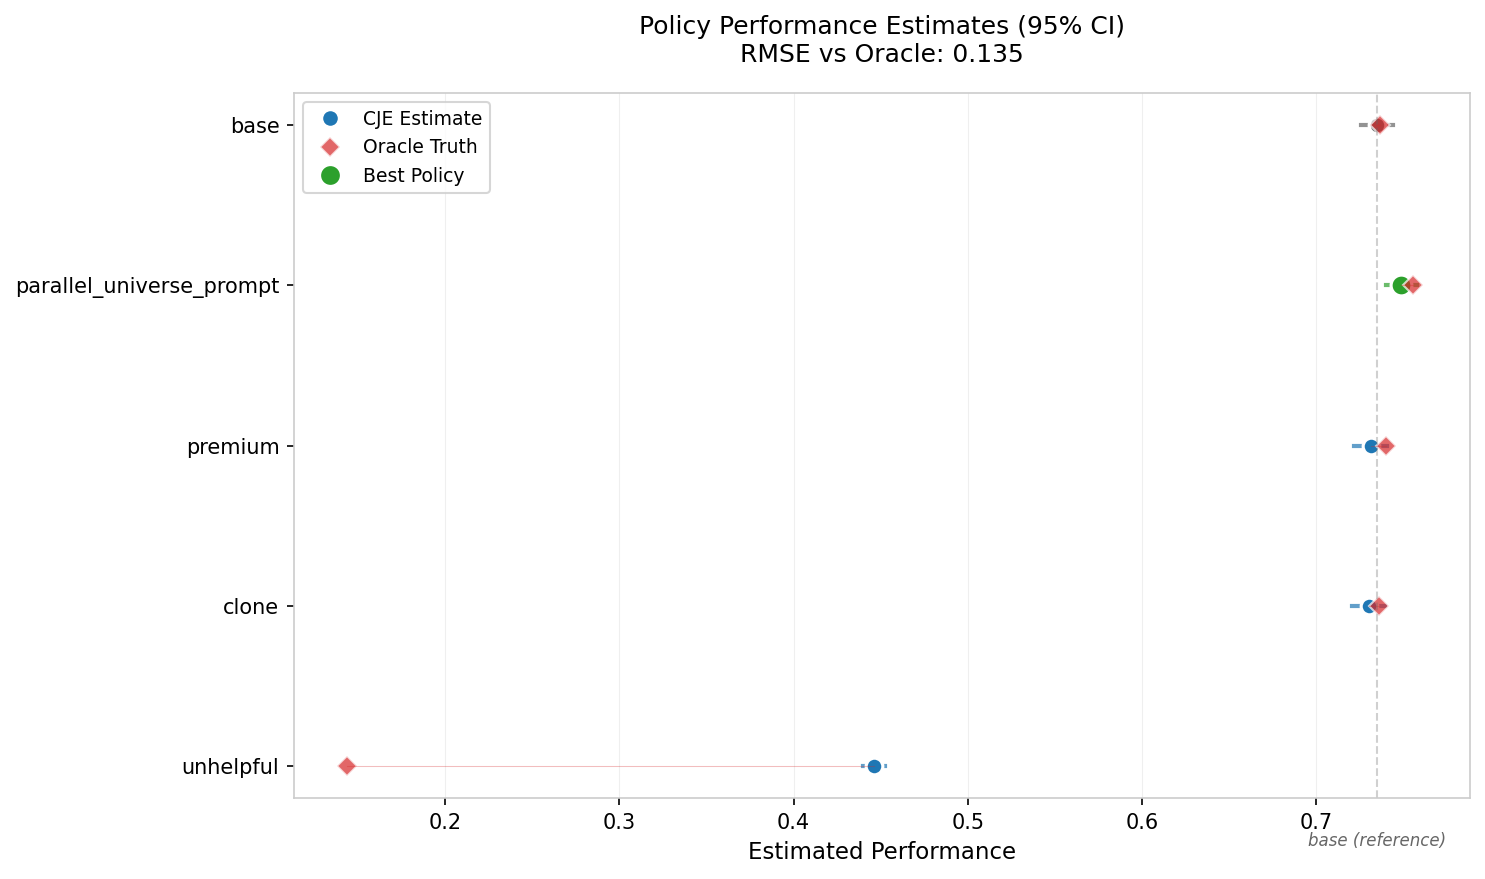
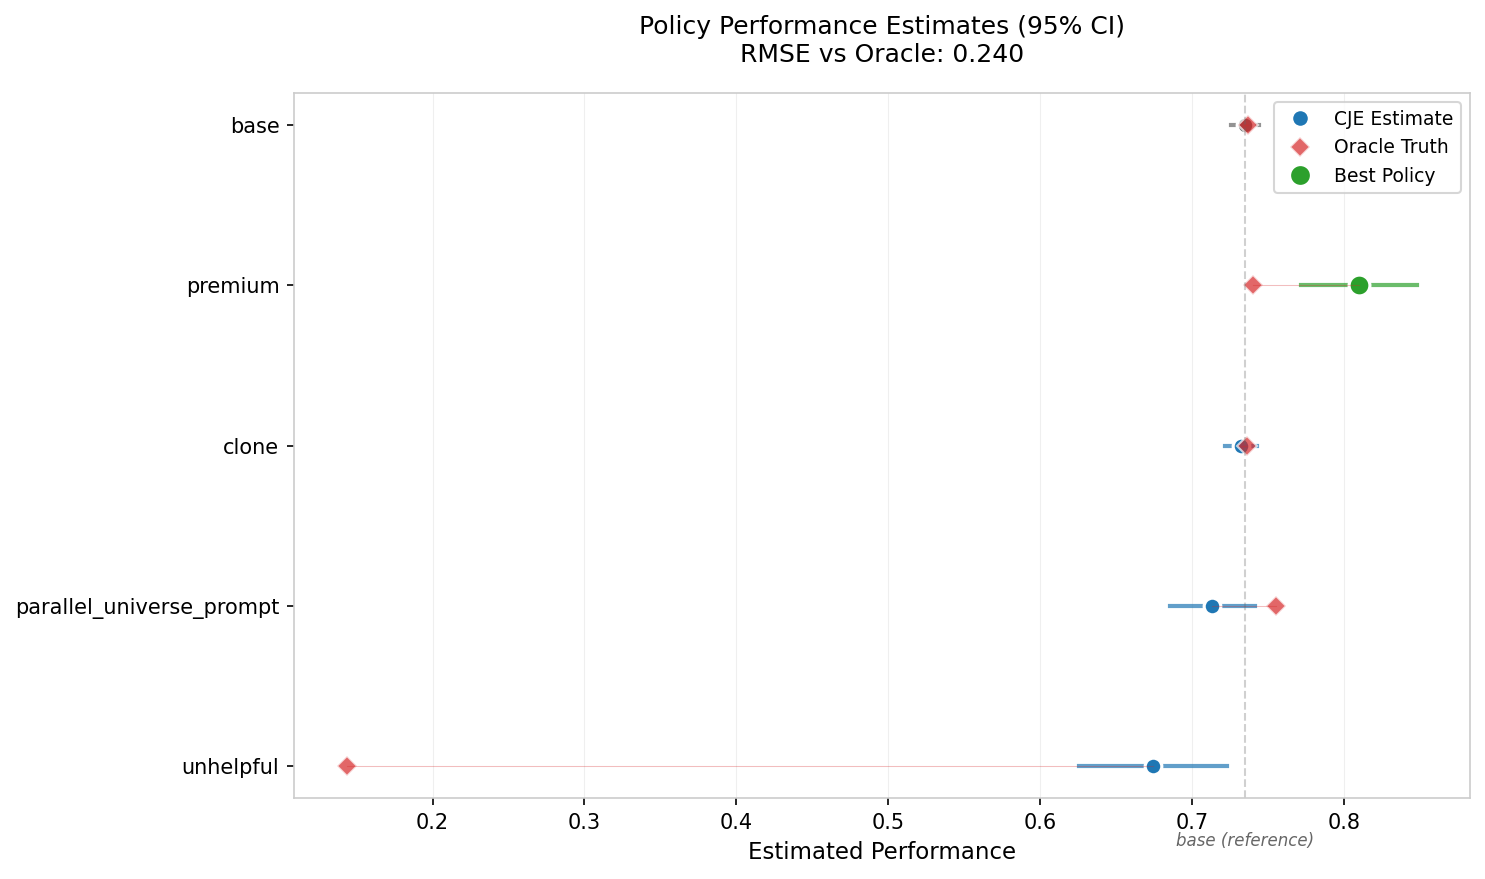
feat: Add influence function storage and improved policy comparisons
## ✨ Statistical Improvements

### 1. Influence Function Storage
- **Added**: `store_influence` parameter to CalibratedIPS and DREstimator
- **Stores**: Per-sample influence functions for each policy
- **Enables**: Correct variance estimation for policy differences
- **Impact**: More accurate hypothesis tests and confidence intervals

### 2. Policy Comparison with Covariance
- **Before**: Used sqrt(se1² + se2²) - ignores covariance
- **Now**: Uses Var(IF₁ - IF₂) when influence functions available
- **Result**: Less conservative p-values for correlated policies
- **Fallback**: Conservative estimate when IFs not available

### 3. Fixed evaluate_status
- **Bug**: Assumed balance diagnostics always populated
- **Fix**: Gracefully handles missing balance metrics
- **Impact**: No crashes when features not provided

## 🔧 Implementation Details

- CalibratedIPS: Stores IF = W*(R - θ) for mean-one Hajek estimator
- DREstimator: Stores IF = g_fresh + W*(R - g_logged) - θ_DR
- EstimationResult.compare_policies(): Automatically uses IFs when available
- Added "used_influence" flag to comparison results for transparency

These improvements enable more accurate statistical inference, especially
for comparing highly correlated policies (e.g., similar models on same data).

🤖 Generated with [Claude Code](https://claude.ai/code)

diff --git a/cje/data/models.py b/cje/data/models.py
@@ -168,11 +168,55 @@ class EstimationResult(BaseModel):
     def compare_policies(
         self, idx1: int, idx2: int, alpha: float = 0.05
     ) -> Dict[str, Any]:
-        """Compare two policies."""
+        """Compare two policies using influence functions when available."""
         diff = self.estimates[idx1] - self.estimates[idx2]
-        se_diff = np.sqrt(
-            self.standard_errors[idx1] ** 2 + self.standard_errors[idx2] ** 2
+
+        # Check if we have influence functions to account for covariance
+        influence_data = (
+            self.metadata.get("dr_influence")
+            or self.metadata.get("ips_influence")
+            or self.metadata.get("tmle_influence")
         )
+
+        if influence_data and "target_policies" in self.metadata:
+            # Use influence functions for correct variance estimation
+            policies = self.metadata["target_policies"]
+            if idx1 < len(policies) and idx2 < len(policies):
+                p1 = policies[idx1]
+                p2 = policies[idx2]
+
+                if p1 in influence_data and p2 in influence_data:
+                    # Compute variance of difference using influence functions
+                    if1 = influence_data[p1]
+                    if2 = influence_data[p2]
+
+                    # Ensure same length (should be aligned)
+                    if len(if1) == len(if2):
+                        diff_if = if1 - if2
+                        se_diff = float(np.std(diff_if, ddof=1) / np.sqrt(len(diff_if)))
+                    else:
+                        # Fall back to conservative estimate if lengths mismatch
+                        se_diff = np.sqrt(
+                            self.standard_errors[idx1] ** 2
+                            + self.standard_errors[idx2] ** 2
+                        )
+                else:
+                    # Fall back if policies not found
+                    se_diff = np.sqrt(
+                        self.standard_errors[idx1] ** 2
+                        + self.standard_errors[idx2] ** 2
+                    )
+            else:
+                # Fall back if indices out of range
+                se_diff = np.sqrt(
+                    self.standard_errors[idx1] ** 2 + self.standard_errors[idx2] ** 2
+                )
+        else:
+            # Conservative estimate ignoring covariance
+            se_diff = np.sqrt(
+                self.standard_errors[idx1] ** 2 + self.standard_errors[idx2] ** 2
+            )
+
         z_score = diff / se_diff if se_diff > 0 else 0
 
         from scipy import stats
@@ -185,6 +229,11 @@ class EstimationResult(BaseModel):
             "z_score": z_score,
             "p_value": p_value,
             "significant": p_value < alpha,
+            "used_influence": influence_data is not None
+            and se_diff
+            != np.sqrt(
+                self.standard_errors[idx1] ** 2 + self.standard_errors[idx2] ** 2
+            ),
         }
 
     def to_dict(self) -> Dict[str, Any]:

diff --git a/cje/core/calibrated_ips.py b/cje/core/calibrated_ips.py
@@ -47,13 +47,16 @@ class CalibratedIPS(BaseCJEEstimator):
         enforce_variance_nonincrease: bool = True,  # Default: prevent variance explosion
         max_variance_ratio: float = 1.0,  # ≤1.0 = no increase, <1.0 = force reduction
         compute_diagnostics: bool = True,  # compute detailed diagnostics
+        store_influence: bool = False,  # Store per-sample influence functions
     ):
         super().__init__(sampler)
         self.clip_weight = clip_weight
         self.enforce_variance_nonincrease = enforce_variance_nonincrease
         self.max_variance_ratio = max_variance_ratio
         self.compute_diagnostics = compute_diagnostics
+        self.store_influence = store_influence
         self.target_mean = 1.0  # Always use SNIPS/Hajek normalization
+        self._influence_functions: Dict[str, np.ndarray] = {}
 
     def fit(self) -> None:
         """Fit weight calibration for all target policies with comprehensive diagnostics."""
@@ -217,22 +220,38 @@ class CalibratedIPS(BaseCJEEstimator):
                 centered = weights * (rewards - estimate)
                 var_hat = float(np.var(centered, ddof=1))
                 se = np.sqrt(var_hat / n)
+
+                # Store influence functions if requested
+                if self.store_influence:
+                    # Influence function for mean-one Hajek estimator
+                    self._influence_functions[policy] = centered
             else:
                 se = 0.0
+                if self.store_influence:
+                    self._influence_functions[policy] = np.array([])
 
             estimates.append(estimate)
             standard_errors.append(se)
             n_samples_used[policy] = len(data) if data else 0
+
+        metadata = {
+            "clip_weight": self.clip_weight,
+            "diagnostics": self._diagnostics,  # Include diagnostics
+            "target_policies": list(
+                self.sampler.target_policies
+            ),  # For policy comparison
+        }
+
+        # Add influence functions if stored
+        if self.store_influence:
+            metadata["ips_influence"] = self._influence_functions
 
         return EstimationResult(
             estimates=np.array(estimates),
             standard_errors=np.array(standard_errors),
             n_samples_used=n_samples_used,
             method="calibrated_ips",
-            metadata={
-                "clip_weight": self.clip_weight,
-                "diagnostics": self._diagnostics,  # Include diagnostics
-            },
+            metadata=metadata,
         )
 
     def get_diagnostics(self, target_policy: Optional[str] = None) -> Dict[str, Any]:

diff --git a/cje/core/dr_base.py b/cje/core/dr_base.py
@@ -106,6 +106,10 @@ class DREstimator(BaseCJEEstimator):
         self._fresh_draws: Dict[str, FreshDrawDataset] = {}
         self._outcome_fitted = False
 
+        # Influence function storage
+        self.store_influence = kwargs.pop("store_influence", False)
+        self._influence_functions: Dict[str, np.ndarray] = {}
+
         # Generate fold assignments for cross-fitting
         n_samples = len(sampler.dataset.samples)
         self.fold_assignments = self._create_fold_assignments(n_samples, n_folds)
@@ -444,6 +448,10 @@ class DREstimator(BaseCJEEstimator):
             )
             se = np.std(if_contributions, ddof=1) / np.sqrt(len(if_contributions))
 
+            # Store influence functions if requested
+            if self.store_influence:
+                self._influence_functions[policy] = if_contributions
+
             estimates.append(dr_estimate)
             standard_errors.append(se)
             n_samples_used[policy] = len(data)
@@ -581,19 +589,26 @@ class DREstimator(BaseCJEEstimator):
         # Merge all diagnostics
         all_diagnostics = {"ips": ips_diagnostics, **dr_metadata}
 
+        # Build metadata
+        metadata = {
+            "diagnostics": all_diagnostics,
+            "target_policies": list(self.sampler.target_policies),
+            "weight_method": "calibrated" if self.use_calibrated_weights else "raw",
+            "dr_diagnostics": dr_diagnostics_per_policy,
+            "dr_overview": dr_overview,
+            "dr_calibration_data": dr_calibration_data,
+        }
+
+        # Add influence functions if stored
+        if self.store_influence:
+            metadata["dr_influence"] = self._influence_functions
+
         return EstimationResult(
             estimates=np.array(estimates),
             standard_errors=np.array(standard_errors),
             n_samples_used=n_samples_used,
             method="dr_base",
-            metadata={
-                "diagnostics": all_diagnostics,
-                "target_policies": self.sampler.target_policies,
-                "weight_method": "calibrated" if self.use_calibrated_weights else "raw",
-                "dr_diagnostics": dr_diagnostics_per_policy,
-                "dr_overview": dr_overview,
-                "dr_calibration_data": dr_calibration_data,
-            },
+            metadata=metadata,
         )
 
     def get_weights(self, policy: str) -> Optional[np.ndarray]:

diff --git a/cje/utils/diagnostics.py b/cje/utils/diagnostics.py
@@ -271,15 +271,30 @@ def evaluate_status(diagnostics: Dict[str, Any]) -> str:
     # Extract key metrics
     ess_frac = weights.get("ess_fraction", 0)
     tail_ratio = weights.get("tail_ratio_99_5", np.inf)
-    asamd = balance.get("avg_asamd", 0)
 
-    # Green thresholds (conservative)
-    if ess_frac >= 0.30 and tail_ratio <= 100 and asamd <= 0.05:
-        return "green"
+    # Balance may not be populated (requires features)
+    # Default to None if not available
+    asamd = balance.get("avg_asamd", None) if balance else None
 
-    # Amber thresholds (acceptable)
-    if ess_frac >= 0.20 and tail_ratio <= 500 and asamd <= 0.10:
-        return "amber"
+    # Evaluate based on available metrics
+    if asamd is not None:
+        # Full evaluation with balance
+        # Green thresholds (conservative)
+        if ess_frac >= 0.30 and tail_ratio <= 100 and asamd <= 0.05:
+            return "green"
+
+        # Amber thresholds (acceptable)
+        if ess_frac >= 0.20 and tail_ratio <= 500 and asamd <= 0.10:
+            return "amber"
+    else:
+        # Weight-only evaluation (no balance metrics)
+        # Green thresholds (conservative, weight-only)
+        if ess_frac >= 0.30 and tail_ratio <= 100:
+            return "green"
+
+        # Amber thresholds (acceptable, weight-only)
+        if ess_frac >= 0.20 and tail_ratio <= 500:
+            return "amber"
 
     return "red"
 
